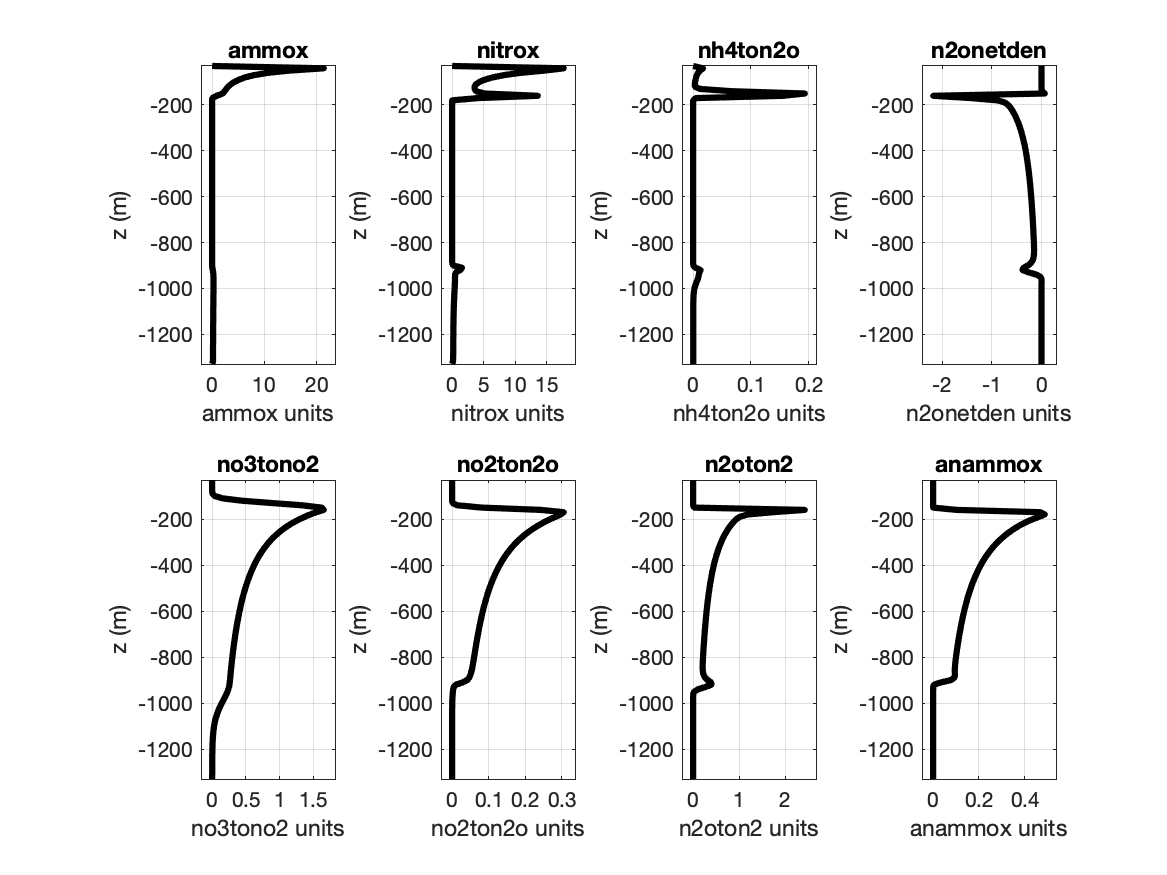
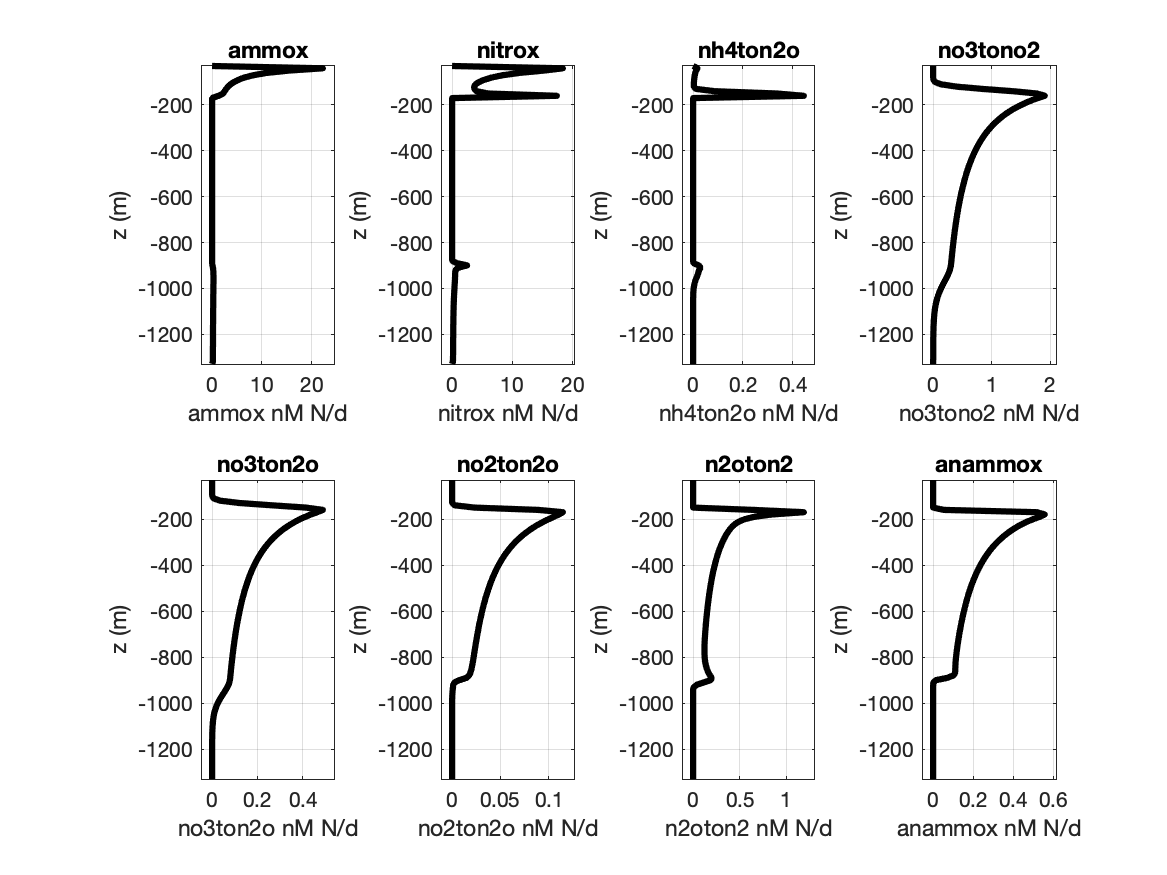
correct N:C ratios for N2O production, re-estimate remin and denit rates

diff --git a/processing/bgc1d_postprocess.m b/processing/bgc1d_postprocess.m
@@ -92,7 +92,7 @@ end
 % Converts from (uM N/s) to (nM N/d)
 cnvrt = 1000*3600*24;
 bgc.remox      = diag.RemOx      * cnvrt;	   % nM C/d
-bgc.ammox      = diag.Ammox      * cnvrt;	   % nM n/d
+bgc.ammox      = diag.Ammox      * cnvrt;	   % nM N/d
 bgc.anammox    = 2.0 * diag.Anammox * cnvrt;       % nM N/d : Units of N, not N2
 bgc.nitrox     = diag.Nitrox     * cnvrt;	   % nM n/d
 bgc.remden     = diag.RemDen     * cnvrt;	   % nM C/d
@@ -117,17 +117,19 @@ if bgc.RunIsotopes
 	bgc.r15n2oB = bgc.i15n2oB./bgc.n2o;
  end
 
-% Other (for convenience)
+% rename nitrification rates (for convenience)
 bgc.nh4tono2 = bgc.jno2_ao; % nM N/d
 bgc.no2tono3 = bgc.nitrox;  % nm N/d
-% Denitrification rates
+bgc.nh4ton2o = bgc.jn2o_ao; % nM N/d : Units of N, not N2O
+% convert nitrate reduction from nM C/day to nM N/day
 bgc.no3tono2    = bgc.NCden1 * bgc.remden1;      % nM N/d
+% grab n2o production and consumption rates from individual sms terms
 bgc.no2ton2o    =   2 * sms.n2oind.den2 * cnvrt; % nM N/d : Units of N, not N2O
+bgc.no3ton2o    =   2 * sms.n2oind.den4 * cnvrt; % nM N/d : Units of N, not N2O
 bgc.n2oton2     = - 2 * sms.n2oind.den3 * cnvrt; % nM N/d : Units of N, not NO
 bgc.noxton2o    = bgc.no2ton2o;                  % nM N/d : Units of N, not N2O
-% N2O formation
-bgc.n2onetden   = bgc.NCden2 * bgc.remden2 - 2.0 * bgc.NCden3 * bgc.remden3; % nM N/d : Units of N, not N2O
-bgc.nh4ton2o    = bgc.jn2o_ao;                                               % nM N/d : Units of N, not N2O
+% calculate net N2O formation
+bgc.n2onetden   = bgc.NCden2 * bgc.remden2 + bgc.NCden4 * bgc.remden4 - 2.0 * bgc.NCden3 * bgc.remden3; % nM N/d : Units of N, not N2O
 % Anammox fraction
 bgc.AnammoxFrac = bgc.anammox ./ (bgc.anammox + bgc.NCden2.*bgc.remden2 + bgc.jn2o_prod); % non-dimensional
 

diff --git a/bgc1d_src/bgc1d_sourcesink_isos.m b/bgc1d_src/bgc1d_sourcesink_isos.m
@@ -217,7 +217,7 @@ diag.RemDen3    = RemDen3;                                     % mmolC/m3/s
 diag.RemDen4    = RemDen4;                                     % mmolC/m3/s
 diag.RemDen     = RemDen1 + RemDen2 + RemDen3 + RemDen4;       % mmolC/m3/s
 diag.Jno2_ao    = Jno2_hx;                                     % mmolN/m3/s
-diag.Jn2o_ao    = Jnn2o_hx + Jnn2o_nden + Jnn2o_hy;                       % mmolN/m3/s
+diag.Jn2o_ao    = Jnn2o_hx + Jnn2o_nden + 2 .* Jnn2o_hy;       % mmolN/m3/s % hybrid rate is nM NH4+ consumption/day = nM N2O produced/day
 diag.Jn2o_prod  = sms.n2oind.ammox + sms.n2oind.nden + sms.n2oind.den2 + sms.n2oind.den4 + sms.n2oind.hybrid;         % mmolN2O/m3/s
 diag.Jn2o_cons  = sms.n2oind.den3;                             % mmolN2O/m3/s
 diag.Jno2_prod  = Jno2_hx + bgc.NCden1 .* RemDen1;             % mmolN/m3/s

diff --git a/plotting/bgc1d_plot_rates.m b/plotting/bgc1d_plot_rates.m
@@ -8,7 +8,8 @@ A.data = 1;
 A.fact = 1;
 A.oxy_threshold = 1.0;	% o2 threshold ofr oxycline
 A.mode = 'oxycline'; % 'oxycline' references depth to oxycline depth (default)
-A.var = {'ammox','nitrox','nh4ton2o','n2onetden','no3tono2','no2ton2o','n2oton2','anammox'};
+%A.var = {'ammox','nitrox','nh4ton2o','n2onetden','no3tono2','no2ton2o','n2oton2','anammox'};
+A.var = {'ammox','nitrox','nh4ton2o','no3tono2','no3ton2o','no2ton2o','n2oton2','anammox'};
 A.fig = 0;
 A.col = [0 0 0];
 A = parse_pv_pairs(A,varargin);
@@ -76,7 +77,7 @@ for indv=1:nvar;
 	plot(var_plot,bgc.zgrid,'-','color',A.col,'linewidth',3)
 	title([varname])
 	ylabel('z (m)')
-	xlabel([varname ' units'])
+	xlabel([varname ' nM N/d'])
 	ylim([bgc.zbottom bgc.ztop]);
 	xlim([var_range(1)-var_span/10 var_range(2)+var_span/10]);
 	grid on; box on; 

diff --git a/runscripts/bgc1d_initIso_params.m b/runscripts/bgc1d_initIso_params.m
@@ -43,7 +43,7 @@ function bgc = bgc1d_initIso_params(bgc)
  %%%%%%% Denitrification %%%%%%%%
  %%%%%%%%%%%%%%%%%%%%%%%%%%%%%%%%
  % epsilon for den1 -- NO3-->NO2
- bgc.eps_den1 = 13.0;          % Enrichment factors during denitrification 1 (permil) Kritee et al. (2012s)
+ bgc.eps_den1 = 25.0; %13.0;          % Enrichment factors during denitrification 1 (permil) Kritee et al. (2012s)
  % epsilon for den2 -- NO2-->N2O
  %bgc.eps_den2 = 22.0;          % Enrichment factors during denitrification 2 (permil)
  bgc.eps_den2A = 0.0;          % Enrichment factors during denitrification 2 (permil)

diff --git a/functions/get_stoichiometry.m b/functions/get_stoichiometry.m
@@ -10,9 +10,9 @@ O2toH2O_e = 4;
 % number of electrons required to reduce HNO3 to HNO2
 HNO3toHNO2_e = 2;
 % Number of electrons required to reduce HNO2 to N2O ---> Need to check b/c # of N atoms changes
-HNO2toN2O_e = 2;
+HNO2toN2O_e = 4; % CLK: 4 electrons because it's 2 e- per HNO2, times 2 HNO2
 %numbers of electrons required to reduce HNO3 to N2O
-HNO3toN2O_e = 4;
+HNO3toN2O_e = 8;
 % Number of electrons required to reduce N2O to N2
 N2OtoN2_e = 2;
 
